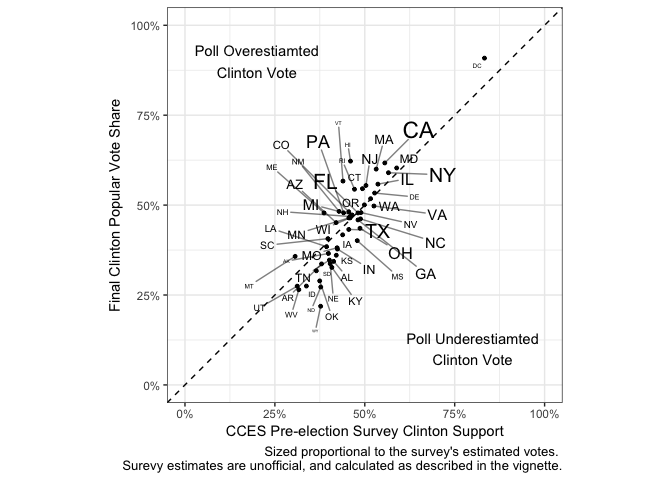
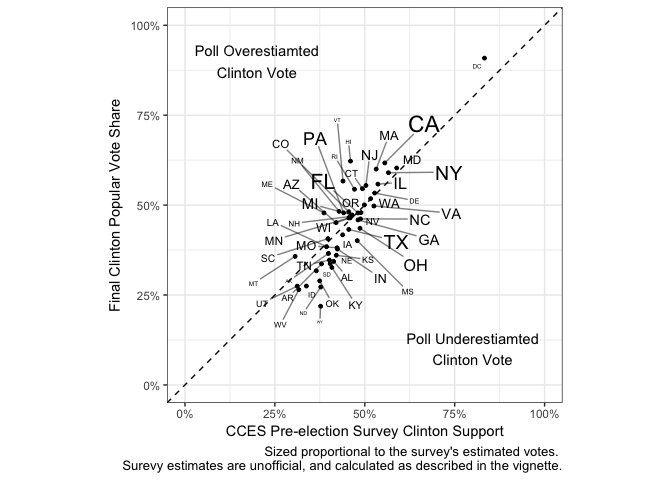
apply abs() when plotting

Changed region(s): [[0.375, 0.25, 0.6875, 0.6875]]

diff --git a/README.md b/README.md
@@ -210,7 +210,7 @@ ggplot(df, aes(x = rho_vep)) + geom_histogram() + theme_bw()
 Correlates of $\\hat{\\rho}$:
 
 ``` r
-gg_rho_voter <-  ggplot(df, aes(x = log(tot_votes), y = log(rho_voter + 1), label = st)) +
+gg_rho_voter <-  ggplot(df, aes(x = log(tot_votes), y = log(abs(rho_voter)), label = st)) +
   theme_bw() +
   geom_point() +
   geom_smooth(method = "lm", se = FALSE, color = "gray") +
@@ -221,52 +221,56 @@ gg_rho_voter
 ![](README_files/figure-markdown_github-ascii_identifiers/unnamed-chunk-9-1.png)
 
 ``` r
-summary(lm(log(rho_voter + 1) ~ log(tot_votes), df))
+summary(lm(log(abs(rho_voter)) ~ log(tot_votes), df))
 ```
 
     ## 
     ## Call:
-    ## lm(formula = log(rho_voter + 1) ~ log(tot_votes), data = df)
+    ## lm(formula = log(abs(rho_voter)) ~ log(tot_votes), data = df)
     ## 
     ## Residuals:
-    ##        Min         1Q     Median         3Q        Max 
-    ## -0.0060963 -0.0012966 -0.0000039  0.0016878  0.0061823 
+    ##     Min      1Q  Median      3Q     Max 
+    ## -2.7377 -0.5154  0.2908  0.6758  1.5932 
     ## 
     ## Coefficients:
-    ##                  Estimate Std. Error t value Pr(>|t|)
-    ## (Intercept)     4.689e-04  4.723e-03   0.099    0.921
-    ## log(tot_votes) -2.171e-05  3.289e-04  -0.066    0.948
+    ##                Estimate Std. Error t value Pr(>|t|)   
+    ## (Intercept)     -0.3806     1.9875  -0.192  0.84892   
+    ## log(tot_votes)  -0.4433     0.1384  -3.204  0.00239 **
+    ## ---
+    ## Signif. codes:  0 '***' 0.001 '**' 0.01 '*' 0.05 '.' 0.1 ' ' 1
     ## 
-    ## Residual standard error: 0.00239 on 49 degrees of freedom
-    ## Multiple R-squared:  8.891e-05,  Adjusted R-squared:  -0.02032 
-    ## F-statistic: 0.004357 on 1 and 49 DF,  p-value: 0.9476
+    ## Residual standard error: 1.006 on 49 degrees of freedom
+    ## Multiple R-squared:  0.1732, Adjusted R-squared:  0.1563 
+    ## F-statistic: 10.26 on 1 and 49 DF,  p-value: 0.002388
 
 ``` r
-gg_rho_voter + aes(x = log(vep), y = log(rho_vep + 1))
+gg_rho_voter + aes(x = log(vep), y = log(abs(rho_vep)))
 ```
 
 ![](README_files/figure-markdown_github-ascii_identifiers/unnamed-chunk-11-1.png)
 
 ``` r
-summary(lm(log(rho_vep + 1) ~ log(vep), df))
+summary(lm(log(abs(rho_vep)) ~ log(vep), df))
 ```
 
     ## 
     ## Call:
-    ## lm(formula = log(rho_vep + 1) ~ log(vep), data = df)
+    ## lm(formula = log(abs(rho_vep)) ~ log(vep), data = df)
     ## 
     ## Residuals:
-    ##        Min         1Q     Median         3Q        Max 
-    ## -0.0047394 -0.0010135  0.0001729  0.0013640  0.0044762 
+    ##     Min      1Q  Median      3Q     Max 
+    ## -2.4279 -0.1386  0.1314  0.3068  0.8911 
     ## 
     ## Coefficients:
-    ##              Estimate Std. Error t value Pr(>|t|)
-    ## (Intercept) 0.0035648  0.0037927   0.940    0.352
-    ## log(vep)    0.0001165  0.0002552   0.456    0.650
+    ##             Estimate Std. Error t value Pr(>|t|)    
+    ## (Intercept) -6.92504    1.12693  -6.145  1.4e-07 ***
+    ## log(vep)     0.10701    0.07582   1.411    0.164    
+    ## ---
+    ## Signif. codes:  0 '***' 0.001 '**' 0.01 '*' 0.05 '.' 0.1 ' ' 1
     ## 
-    ## Residual standard error: 0.001837 on 49 degrees of freedom
-    ## Multiple R-squared:  0.004235,   Adjusted R-squared:  -0.01609 
-    ## F-statistic: 0.2084 on 1 and 49 DF,  p-value: 0.6501
+    ## Residual standard error: 0.5457 on 49 degrees of freedom
+    ## Multiple R-squared:  0.03907,    Adjusted R-squared:  0.01946 
+    ## F-statistic: 1.992 on 1 and 49 DF,  p-value: 0.1644
 
 References
 ==========
